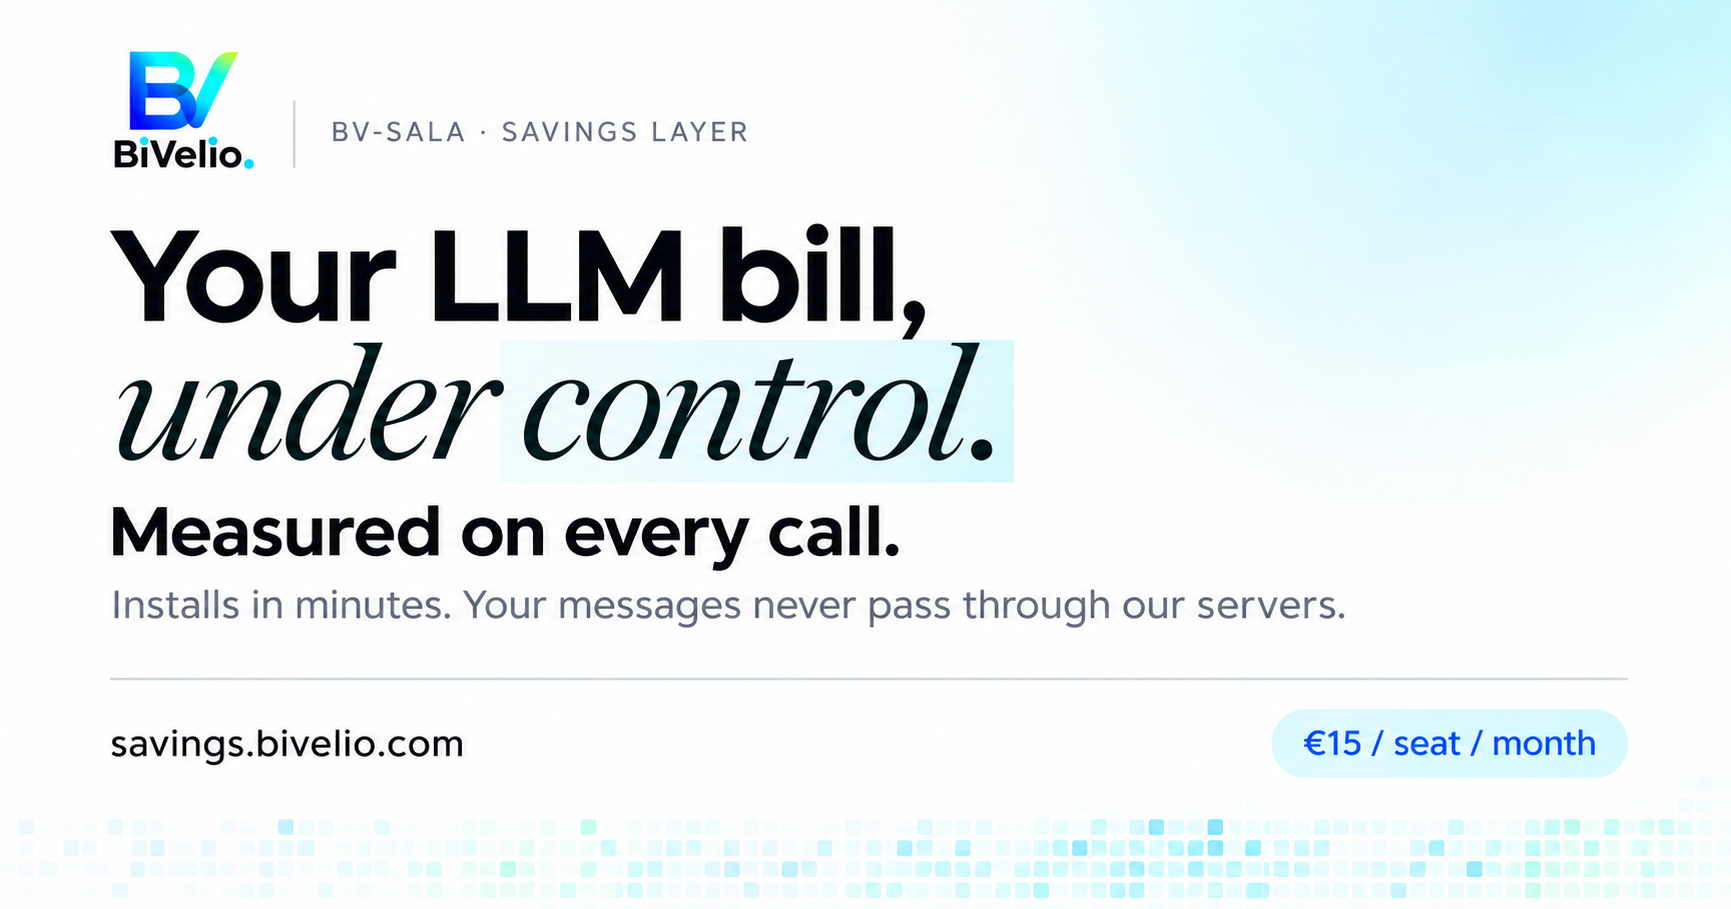
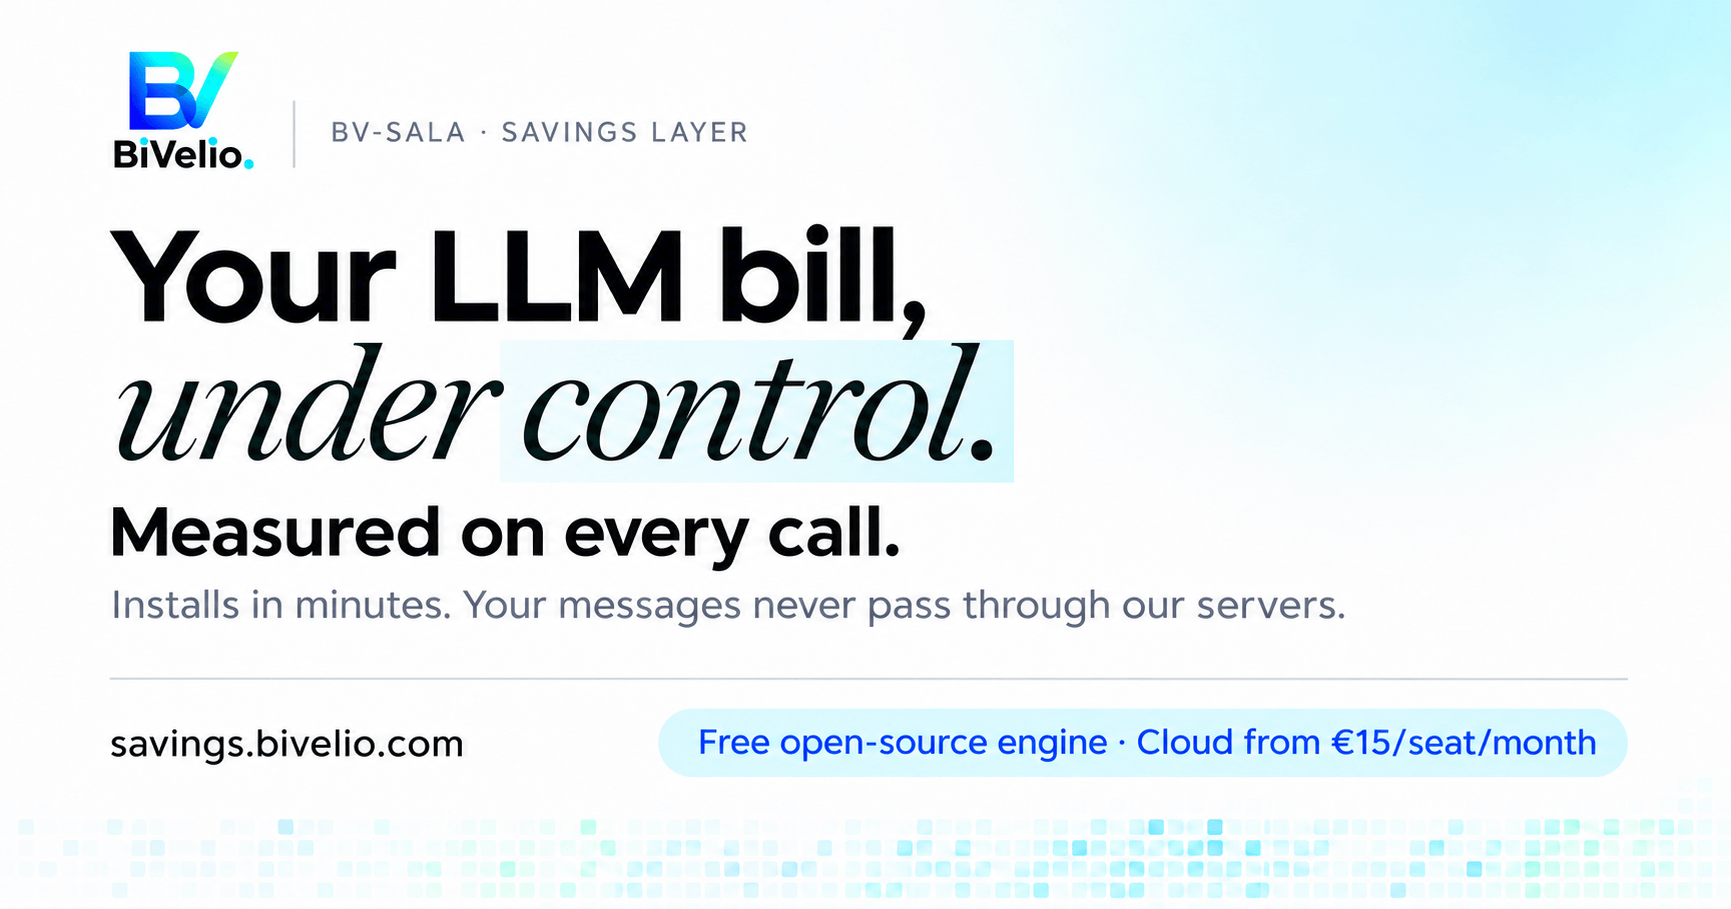
fix(web): la nueva pieza de campaña en la imagen al compartir y en los README
La pieza nueva lleva «Free open-source engine · Cloud from €15/seat/month»
en la píldora (la anterior solo «€15 / seat / month").

- Al compartir (Open Graph y X, todas las páginas): JPEG de 157 KB con
  nombre fechado (og-image-2026-11.jpg). URL nueva para que LinkedIn, X,
  Slack o WhatsApp la pidan de nuevo, y por debajo de los ~300 KB que
  WhatsApp admite para previsualizar. Una sola constante en i18n/site.ts.
- /brand/og-image.png: la misma pieza (PNG sin pérdida, 632 KB en vez de
  1,4 MB) para quien la enlaza desde fuera; los README del repo y de PyPI
  la piden con ?v=2026-11-17 para saltarse la caché de imágenes de GitHub.
- imagen-al-compartir.test.ts: medidas, tipo, peso y una sola fuente.

diff --git a/apps/web/app/[locale]/imagen-al-compartir.test.ts b/apps/web/app/[locale]/imagen-al-compartir.test.ts
@@ -3,7 +3,7 @@ import { join } from "node:path";
 import { fileURLToPath } from "node:url";
 import { describe, it, expect } from "vitest";
 
-import { tarjetaSocial } from "@/i18n/site";
+import { IMAGEN_AL_COMPARTIR, tarjetaSocial } from "@/i18n/site";
 
 /**
  * TODA PÁGINA PÚBLICA SE COMPARTE CON IMAGEN.
@@ -45,9 +45,25 @@ describe("la imagen al compartir", () => {
   it("tarjetaSocial apunta a la imagen de marca, 1731×909", () => {
     const s = tarjetaSocial("de", "Titel");
     expect(s.openGraph.locale).toBe("de");
-    expect(s.openGraph.images[0]).toMatchObject({ width: 1731, height: 909, alt: "Titel" });
-    expect(s.openGraph.images[0].url).toMatch(/\/brand\/og-image\.png$/);
+    expect(s.openGraph.images[0]).toMatchObject({ width: 1731, height: 909, type: "image/jpeg", alt: "Titel" });
+    expect(s.openGraph.images[0].url).toMatch(new RegExp(`${IMAGEN_AL_COMPARTIR.ruta.replace(/[.]/g, "\\.")}$`));
     expect(s.twitter.card).toBe("summary_large_image");
     expect(s.twitter.images[0]).toBe(s.openGraph.images[0].url);
+  });
+
+  it("la imagen existe, mide lo que dice y pesa menos de 300 KB (WhatsApp no previsualiza las más pesadas)", () => {
+    const buf = readFileSync(join(AQUI, "..", "..", "public", IMAGEN_AL_COMPARTIR.ruta));
+    expect(buf.length).toBeLessThan(300 * 1024);
+    // Medidas del JPEG: el primer marcador SOF (0xFFC0–0xFFC2) lleva alto y ancho.
+    let i = 2;
+    while (i < buf.length && !(buf[i] === 0xff && buf[i + 1]! >= 0xc0 && buf[i + 1]! <= 0xc2)) i += 2 + buf.readUInt16BE(i + 2);
+    expect({ width: buf.readUInt16BE(i + 7), height: buf.readUInt16BE(i + 5) }).toEqual({ width: IMAGEN_AL_COMPARTIR.width, height: IMAGEN_AL_COMPARTIR.height });
+  });
+
+  it("la portada usa la misma imagen que el resto, y el PNG de los README sigue publicado", () => {
+    const portada = readFileSync(join(AQUI, "page.tsx"), "utf8");
+    expect(portada).toMatch(/absolute\(IMAGEN_AL_COMPARTIR\.ruta\)/);
+    expect(portada).not.toMatch(/og-image\.png/);
+    expect(existsSync(join(AQUI, "..", "..", "public", "brand", "og-image.png"))).toBe(true);
   });
 });

diff --git a/apps/web/i18n/site.ts b/apps/web/i18n/site.ts
@@ -40,10 +40,22 @@ export function languageAlternates(pathSinLocale = ""): Record<string, string> {
  * no en la página porque /pricing no admite literales numéricos
  * (lib/legal/precios-publicados.test.ts).
  */
+/**
+ * LA IMAGEN AL COMPARTIR (la pieza de campaña, 1731×909). Una sola ruta para
+ * todo el sitio. Va en JPEG (157 KB) y no en el PNG de 632 KB: WhatsApp deja
+ * sin vista previa las imágenes de más de ~300 KB. El NOMBRE lleva la fecha
+ * de la pieza: LinkedIn, X, Slack o WhatsApp guardan la imagen por URL, y una
+ * URL nueva es lo único que les hace pedir la nueva. Al cambiar la pieza,
+ * fichero nuevo con otra fecha. `/brand/og-image.png` sigue publicado, con la
+ * misma pieza, para quien lo enlaza desde fuera (README del repo y de PyPI).
+ */
+export const IMAGEN_AL_COMPARTIR = { ruta: "/brand/og-image-2026-11.jpg", width: 1731, height: 909, type: "image/jpeg" } as const;
+
 export function tarjetaSocial(locale: string, alt: string) {
-  const imagen = absolute("/brand/og-image.png");
+  const { ruta, ...medidas } = IMAGEN_AL_COMPARTIR;
+  const imagen = absolute(ruta);
   return {
-    openGraph: { locale, images: [{ url: imagen, width: 1731, height: 909, alt }] },
+    openGraph: { locale, images: [{ url: imagen, ...medidas, alt }] },
     twitter: { card: "summary_large_image" as const, images: [imagen] },
   };
 }

diff --git a/apps/web/app/[locale]/page.tsx b/apps/web/app/[locale]/page.tsx
@@ -24,7 +24,7 @@ import { NvidiaEcosystemBand } from "@/app/components/NvidiaInception";
 import { DIAS_ACTIVOS_PARA_CONTAR_ASIENTO } from "@/lib/billing/asientos";
 import Footer from "@/app/components/Footer";
 import { Link } from "@/i18n/navigation";
-import { absolute, languageAlternates } from "@/i18n/site";
+import { IMAGEN_AL_COMPARTIR, absolute, languageAlternates } from "@/i18n/site";
 import { tarifasDeLosPlanes } from "@/lib/stripe/pricing";
 import { terminosDeLosPlanes } from "@/lib/legal/precios-publicados";
 import { LIMITES_MEDIR, VERSION_MINIMA_MEDIR } from "@/lib/license/medir-publico";
@@ -113,13 +113,13 @@ export async function generateMetadata({ params }: { params: Promise<{ locale: s
       description,
       url,
       locale,
-      images: [{ url: absolute("/brand/og-image.png"), width: 1731, height: 909, alt: title }],
+      images: [{ url: absolute(IMAGEN_AL_COMPARTIR.ruta), width: IMAGEN_AL_COMPARTIR.width, height: IMAGEN_AL_COMPARTIR.height, type: IMAGEN_AL_COMPARTIR.type, alt: title }],
     },
     twitter: {
       card: "summary_large_image",
       title,
       description,
-      images: [absolute("/brand/og-image.png")],
+      images: [absolute(IMAGEN_AL_COMPARTIR.ruta)],
     },
   };
 }

diff --git a/packages/python/README.md b/packages/python/README.md
@@ -1,7 +1,7 @@
 # BiVelio Savings Layer — Python client
 
 <p align="center">
-  <img src="https://savings.bivelio.com/brand/og-image.png" alt="BiVelio Savings Layer" width="720">
+  <img src="https://savings.bivelio.com/brand/og-image.png?v=2026-11-17" alt="BiVelio Savings Layer" width="720">
 </p>
 
 > **BV-SALA cuts your LLM bill — and proves it on your provider's own meter.**

diff --git a/README.md b/README.md
@@ -1,5 +1,5 @@
 <p align="center">
-  <img src="https://savings.bivelio.com/brand/og-image.png" alt="BiVelio Savings Layer" width="720">
+  <img src="https://savings.bivelio.com/brand/og-image.png?v=2026-11-17" alt="BiVelio Savings Layer" width="720">
 </p>
 
 <h1 align="center">The savings layer for your LLM bill</h1>
